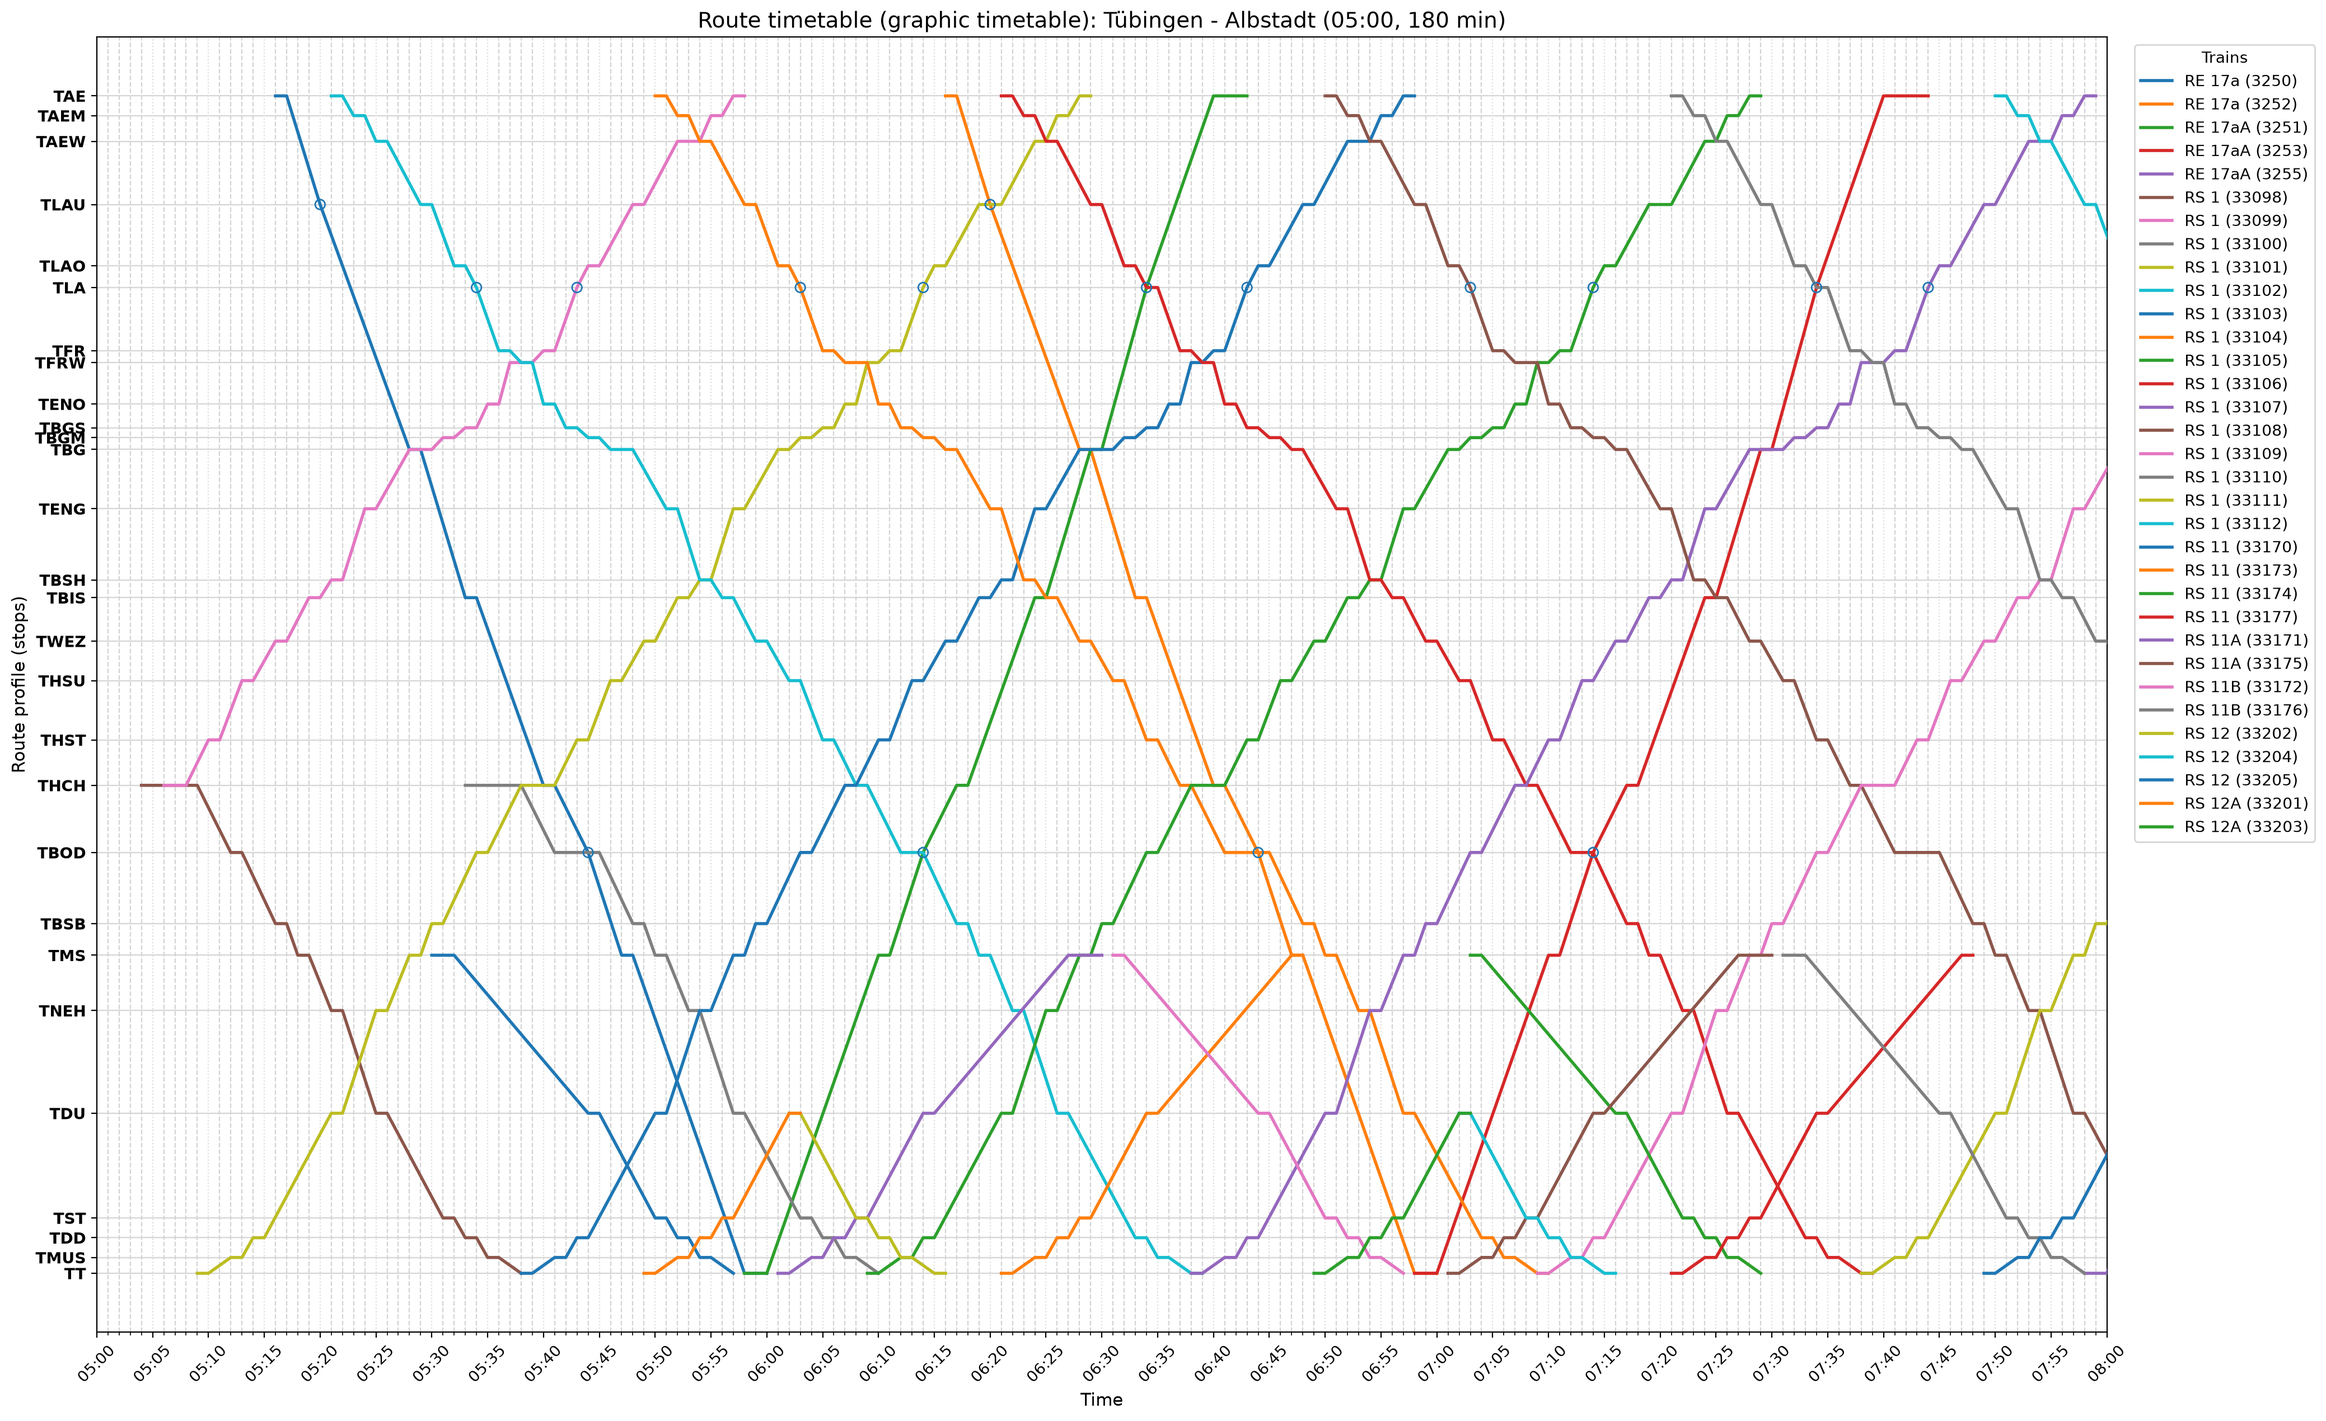
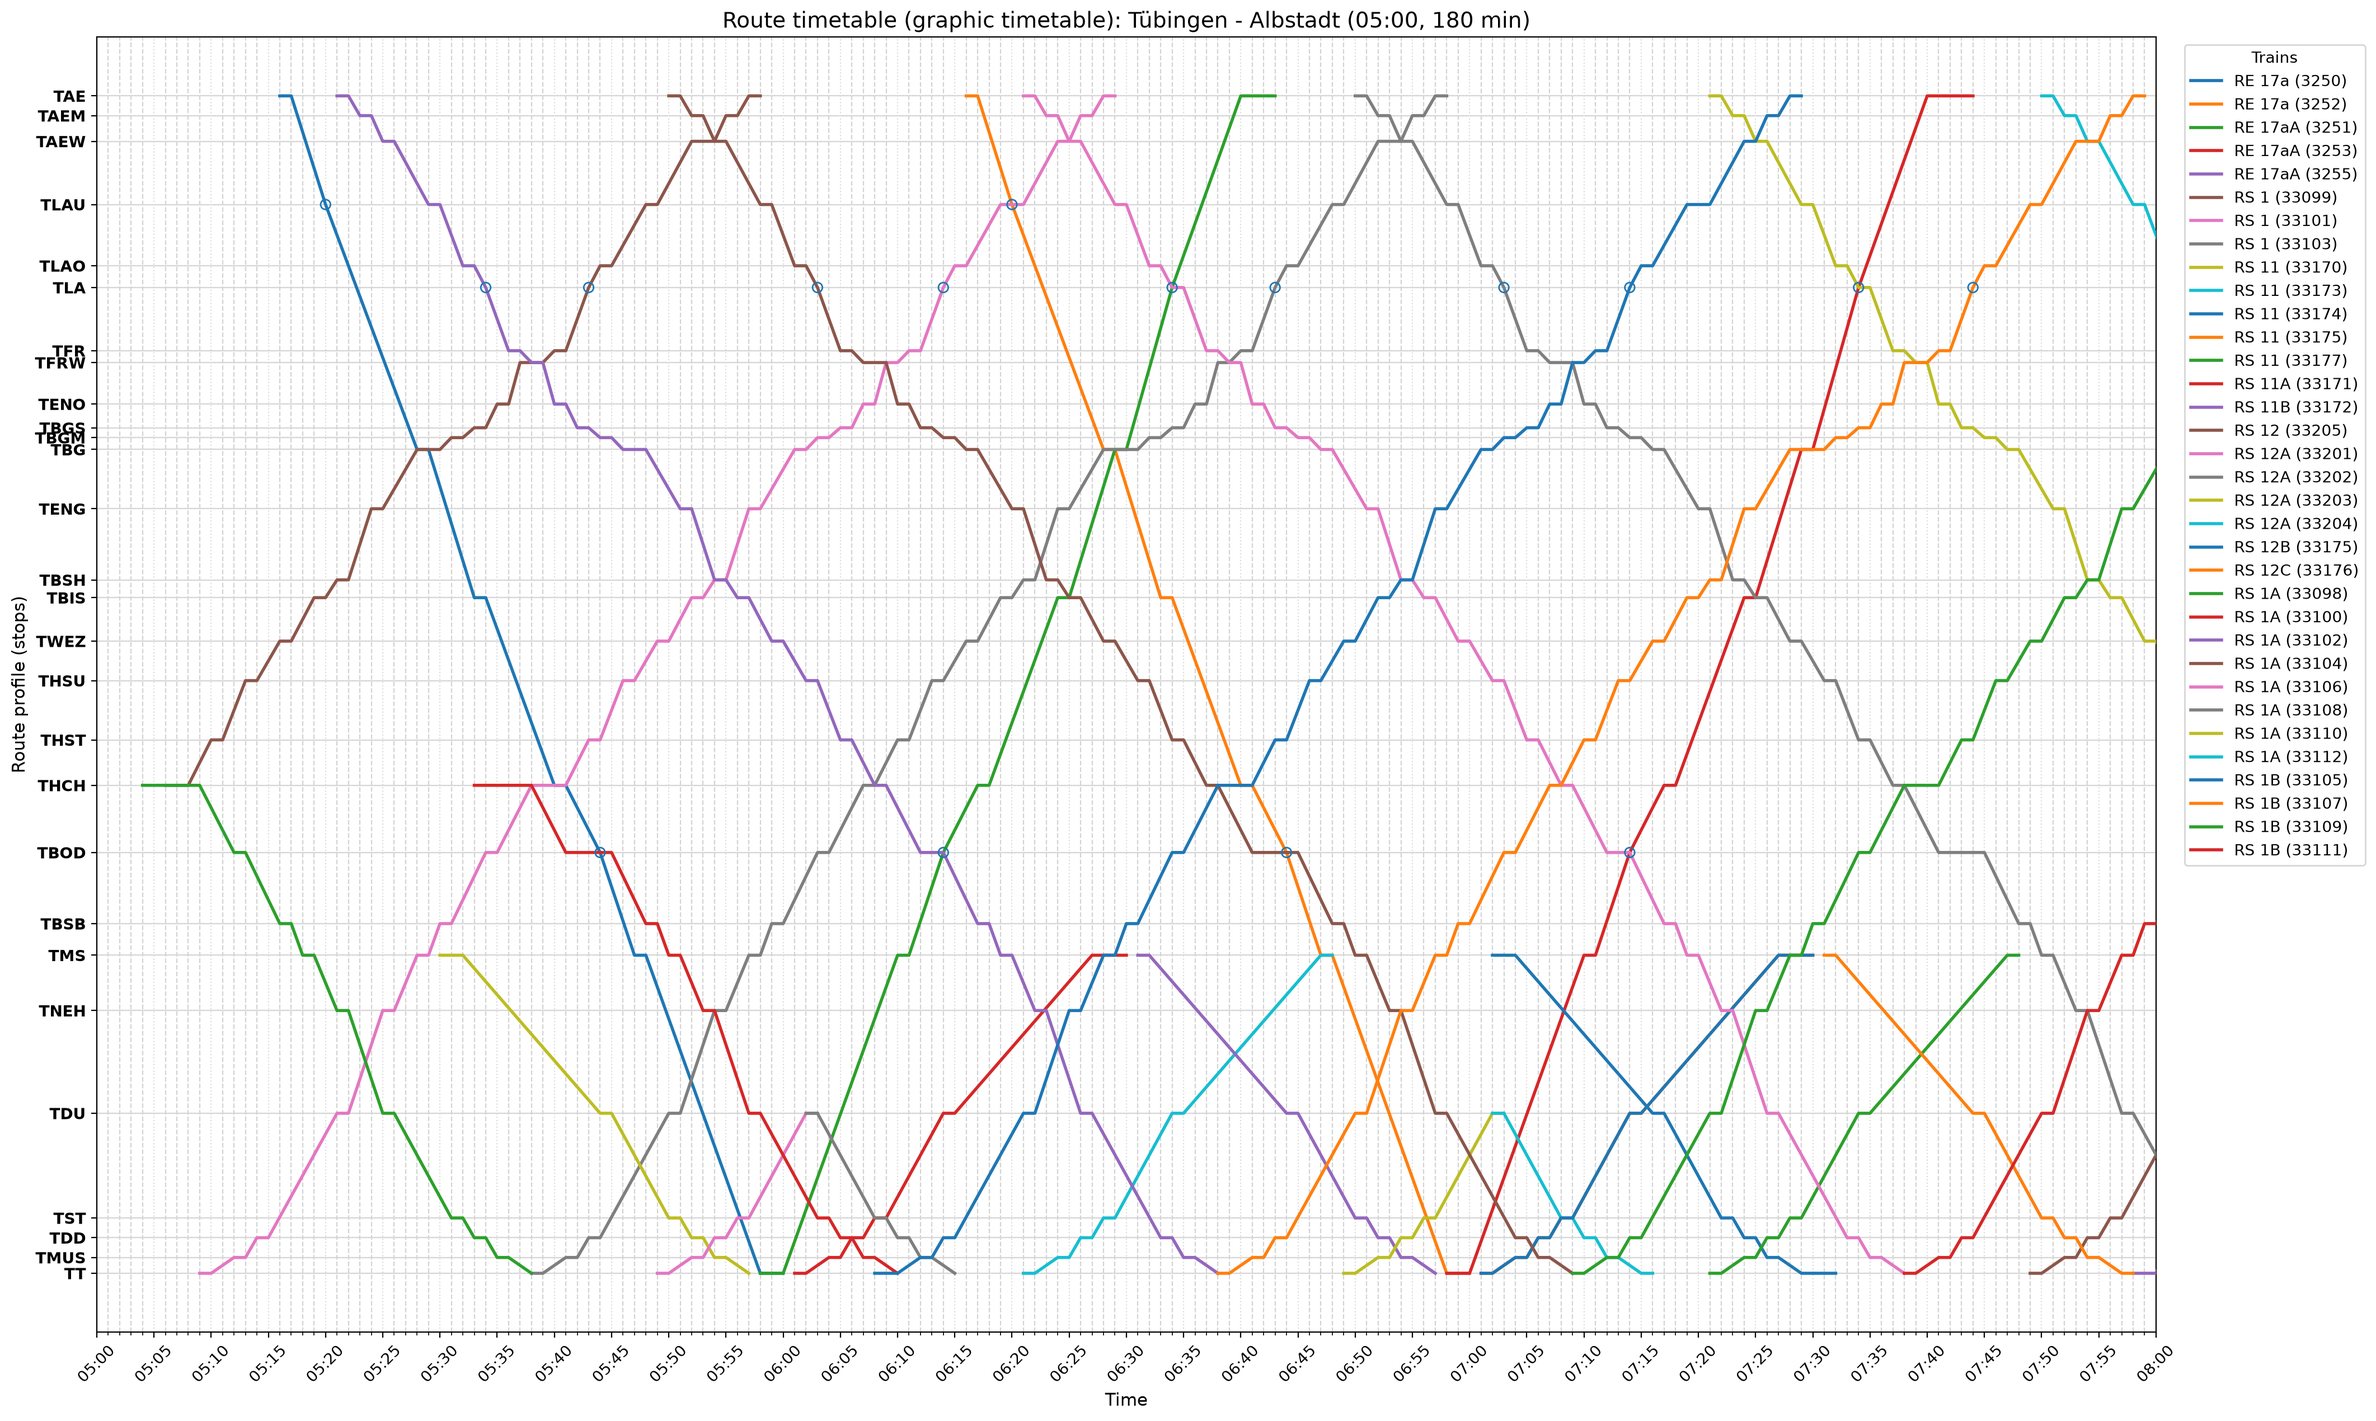
Concat some trains

diff --git a/main.py b/main.py
@@ -33,7 +33,7 @@ RS1_TUEBINGEN_ALBSTADT = {
         {"station_id": station_code_to_id("TAEW"), "arrival": 3, "departure": 1, "platform": 2},
         {"station_id": station_code_to_id("TAEM"), "arrival": 1, "departure": 1, "platform": 1},
         {"station_id": station_code_to_id("TAE"), "arrival": 1, "departure": 1, "platform": 1},
-        {"station_id": station_code_to_id("TAET"), "arrival": 1, "departure": 1, "platform": 1},
+        {"station_id": station_code_to_id("TAET"), "arrival": 1, "departure": 0, "platform": 1},
     ]
 }
 
@@ -68,7 +68,7 @@ RS1_ALBSTADT_TUEBINGEN = {
         #{"station_id": station_code_to_id("TST"), "arrival": 5, "departure": 1, "platform": 1},
         {"station_id": station_code_to_id("TDD"), "arrival": 6, "departure": 1, "platform": 1},
         {"station_id": station_code_to_id("TMUS"), "arrival": 1, "departure": 1, "platform": 1},
-        {"station_id": station_code_to_id("TT"), "arrival": 2, "departure": None, "platform": 11},
+        {"station_id": station_code_to_id("TT"), "arrival": 2, "departure": None, "platform": 6},
     ]
 }
 
@@ -112,9 +112,36 @@ RS1_HECHINGEN_ALBSTADT = {
         {"station_id": station_code_to_id("TAEW"), "arrival": 3, "departure": 1, "platform": 2},
         {"station_id": station_code_to_id("TAEM"), "arrival": 1, "departure": 1, "platform": 1},
         {"station_id": station_code_to_id("TAE"), "arrival": 1, "departure": 1, "platform": 1},
-        {"station_id": station_code_to_id("TAET"), "arrival": 1, "departure": 1, "platform": 1},
+        {"station_id": station_code_to_id("TAET"), "arrival": 1, "departure": 0, "platform": 1},
     ]
 }
+
+RS1_ALBSTADT_HECHINGEN = {
+    "name": "RS 1",
+    "stops": [
+        {"station_id": station_code_to_id("TAET"), "arrival": 0, "departure": 0, "platform": 1},
+        {"station_id": station_code_to_id("TAE"), "arrival": 1, "departure": 1, "platform": 1},
+        {"station_id": station_code_to_id("TAEM"), "arrival": 1, "departure": 1, "platform": 1},
+        {"station_id": station_code_to_id("TAEW"), "arrival": 1, "departure": 1, "platform": 1},
+        {"station_id": station_code_to_id("TLAU"), "arrival": 3, "departure": 1, "platform": 2},
+        {"station_id": station_code_to_id("TLAO"), "arrival": 2, "departure": 1, "platform": 1},
+        {"station_id": station_code_to_id("TLA"), "arrival": 1, "departure": 0},
+        {"station_id": station_code_to_id("TFR"), "arrival": 2, "departure": 1, "platform": 1},
+        {"station_id": station_code_to_id("TFRW"), "arrival": 1, "departure": 1, "platform": 1},
+        {"station_id": station_code_to_id("TENO"), "arrival": 1, "departure": 1, "platform": 1},
+        {"station_id": station_code_to_id("TBGS"), "arrival": 1, "departure": 1, "platform": 1},
+        {"station_id": station_code_to_id("TBGM"), "arrival": 1, "departure": 1, "platform": 1},
+        {"station_id": station_code_to_id("TBG"), "arrival": 1, "departure": 1, "platform": 1},
+        {"station_id": station_code_to_id("TENG"), "arrival": 3, "departure": 1, "platform": 2},
+        {"station_id": station_code_to_id("TBSH"), "arrival": 2, "departure": 1, "platform": 1},
+        {"station_id": station_code_to_id("TBIS"), "arrival": 1, "departure": 1, "platform": 1},
+        {"station_id": station_code_to_id("TWEZ"), "arrival": 2, "departure": 1, "platform": 1},
+        {"station_id": station_code_to_id("THSU"), "arrival": 2, "departure": 1, "platform": 1},
+        {"station_id": station_code_to_id("THST"), "arrival": 2, "departure": 1, "platform": 1},
+        {"station_id": station_code_to_id("THCH"), "arrival": 2, "departure": None, "platform": 2},
+    ]
+}
+
 
 RS11_TUEBINGEN_MOESSINGEN = {
     "name": "RS 11",
@@ -793,8 +820,8 @@ S1_33103.change_platform(station_code_to_id("TBG"), 1)
 S1_33103.extend_stop(station_code_to_id("THCH"), -2)
 S1_33103.extend_stop(station_code_to_id("TAEW"), 1)
 
-S1_33105 = Train.from_blueprint(33105, RS1_TUEBINGEN_ALBSTADT, "RS 1", "6:09", "LPLPL")
-S1_33105.set_origin(station_code_to_id("TTBW"), 2, platform=1)
+S1_33105 = Train.from_blueprint(33105, RS1_TUEBINGEN_ALBSTADT, "RS 1", "6:08", "LPLPL")
+S1_33105.extend_stop(station_code_to_id("TT"), 2)
 S1_33105.change_platform(station_code_to_id("TT"), 11)
 S1_33105.extend_stop(station_code_to_id("TLAU"), 1)
 
@@ -880,60 +907,54 @@ S1_33123.extend_stop(station_code_to_id("TLAU"), 1)
 #######################
 
 S1_33098 = Train.from_blueprint(33098, RS1_HECHINGEN_TUEBINGEN, "RS 1", "5:03", "LPL")
+S1_33098.add_leg(S1_33105)
 
 S1_33100 = Train.from_blueprint(33100, RS1_HECHINGEN_TUEBINGEN, "RS 1", "5:32", "LPL")
 S1_33100.extend_stop(station_code_to_id("TBOD"), 3) # overtake by RE
+S1_33100.add_leg(S1_33107)
 
 S1_33102 = Train.from_blueprint(33102, RS1_ALBSTADT_TUEBINGEN, "RS 1", "5:20", "LPL")
-S1_33102.change_platform(station_code_to_id("TT"), 6)
-S1_33102.set_ending(station_code_to_id("TTBW"), 2)
 S1_33102.extend_stop(station_code_to_id("TBG"), 1)
 S1_33102.extend_stop(station_code_to_id("TBOD"), 1) # Kreuzung mit RE
+S1_33102.add_leg(S1_33109)
 
 S1_33104 = Train.from_blueprint(33104, RS1_ALBSTADT_TUEBINGEN, "RS 1", "5:49", "LPLPL")
-S1_33104.change_platform(station_code_to_id("TT"), 6)
-S1_33104.set_ending(station_code_to_id("TTBW"), 2)
 S1_33104.extend_stop(station_code_to_id("TFRW"), 1)
 S1_33104.extend_stop(station_code_to_id("TBOD"), 3) # overtake by RE
+S1_33104.add_leg(S1_33111)
 
 S1_33106 = Train.from_blueprint(33106, RS1_ALBSTADT_TUEBINGEN, "RS 1", "6:20", "LPLPL")
-S1_33106.change_platform(station_code_to_id("TT"), 6)
-S1_33106.set_ending(station_code_to_id("TTBW"), 2)
 S1_33106.extend_stop(station_code_to_id("TLA"), 1)
 S1_33106.change_platform(station_code_to_id("TLA"), 2)
 S1_33106.extend_stop(station_code_to_id("TBOD"), 1)
+S1_33106.add_leg(S1_33113)
 
 S1_33108 = Train.from_blueprint(33108, RS1_ALBSTADT_TUEBINGEN, "RS 1", "6:49", "LPLPL")
-S1_33108.change_platform(station_code_to_id("TT"), 6)
-S1_33108.set_ending(station_code_to_id("TTBW"), 2)
 S1_33108.extend_stop(station_code_to_id("TFRW"), 1)
 S1_33108.extend_stop(station_code_to_id("TBOD"), 3) # overtake by RE
+S1_33108.add_leg(S1_33115)
 
 S1_33110 = Train.from_blueprint(33110, RS1_ALBSTADT_TUEBINGEN, "RS 1", "7:20", "LPLPL")
-S1_33110.change_platform(station_code_to_id("TT"), 6)
-S1_33110.set_ending(station_code_to_id("TTBW"), 2)
 S1_33110.extend_stop(station_code_to_id("TLA"), 1)
 S1_33110.change_platform(station_code_to_id("TLA"), 2)
 S1_33110.extend_stop(station_code_to_id("TBOD"), 1)
+S1_33110.add_leg(S1_33117)
 
 S1_33112 = Train.from_blueprint(33112, RS1_ALBSTADT_TUEBINGEN, "RS 1", "7:49", "LPLPL")
-S1_33112.change_platform(station_code_to_id("TT"), 6)
-S1_33112.set_ending(station_code_to_id("TTBW"), 2)
 S1_33112.extend_stop(station_code_to_id("TFRW"), 1)
 S1_33112.extend_stop(station_code_to_id("TBOD"), 3) # overtake by RE
+S1_33112.add_leg(S1_33119)
 
 S1_33114 = Train.from_blueprint(33114, RS1_ALBSTADT_TUEBINGEN, "RS 1", "8:20", "LPLPL")
-S1_33114.change_platform(station_code_to_id("TT"), 6)
-S1_33114.set_ending(station_code_to_id("TTBW"), 2)
 S1_33114.extend_stop(station_code_to_id("TLA"), 1)
 S1_33114.change_platform(station_code_to_id("TLA"), 2)
 S1_33114.extend_stop(station_code_to_id("TBOD"), 1)
+S1_33114.add_leg(S1_33121)
 
 S1_33116 = Train.from_blueprint(33116, RS1_ALBSTADT_TUEBINGEN, "RS 1", "8:49", "LPLPL")
-S1_33116.change_platform(station_code_to_id("TT"), 6)
-S1_33116.set_ending(station_code_to_id("TTBW"), 2)
 S1_33116.extend_stop(station_code_to_id("TFRW"), 1)
 S1_33116.extend_stop(station_code_to_id("TBOD"), 3) # overtake by RE
+S1_33116.add_leg(S1_33123)
 
 S1_33118 = Train.from_blueprint(33118, RS1_ALBSTADT_TUEBINGEN, "RS 1", "9:20", "LPLPL")
 S1_33118.change_platform(station_code_to_id("TT"), 6)
@@ -948,12 +969,10 @@ S1_33120.set_ending(station_code_to_id("TTBW"), 2)
 S1_33120.extend_stop(station_code_to_id("TFRW"), 1)
 S1_33120.extend_stop(station_code_to_id("TBOD"), 3) # overtake by RE
 
-S1_33122 = Train.from_blueprint(33122, RS1_ALBSTADT_TUEBINGEN, "RS 1", "10:20", "LPLPL")
-S1_33122.change_platform(station_code_to_id("TT"), 6)
-S1_33122.set_ending(station_code_to_id("TTBW"), 2)
+S1_33122 = Train.from_blueprint(33122, RS1_ALBSTADT_HECHINGEN, "RS 1", "10:20", "LPLPL")
+S1_33122.set_ending(station_code_to_id("THEA"), 3)
 S1_33122.extend_stop(station_code_to_id("TLA"), 1)
 S1_33122.change_platform(station_code_to_id("TLA"), 2)
-S1_33122.extend_stop(station_code_to_id("TBOD"), 1)
 
 S1_TRAINS = [S1_33098, S1_33099, S1_33100, S1_33101, S1_33102, S1_33103, S1_33104, S1_33105, S1_33106, S1_33107, S1_33108, S1_33109, S1_33110, S1_33111, S1_33112,
               S1_33113, S1_33114, S1_33115, S1_33116, S1_33117, S1_33118, S1_33119, S1_33120, S1_33121, S1_33122, S1_33123]
@@ -1017,33 +1036,49 @@ S11_33172.change_platform(station_code_to_id("TMS"), 1)
 S11_33172.extend_stop(station_code_to_id("TMS"), 1)
 S11_33171.add_leg(S11_33172)
 
-S11_33174 = Train.from_blueprint(33174, RS11_MOESSINGEN_TUEBINGEN, "RS 11", "7:03", "LPL")
+S11_33174 = Train.from_blueprint(33174, RS11_MOESSINGEN_TUEBINGEN, "RS 11", "7:02", "LPL")
 S11_33174.set_origin(station_code_to_id("TMSA"), 1, platform=1)
+S11_33174.extend_stop(station_code_to_id("TMS"), 1)
+S11_33174.change_platform(station_code_to_id("TT"), 6)
+S11_33174.set_ending(station_code_to_id("TTBW"), 2, platform=1)
+S11_33174.extend_stop(station_code_to_id("TT"), 2)
 
 S11_33176 = Train.from_blueprint(33176, RS11_MOESSINGEN_TUEBINGEN, "RS 11", "7:31", "LPL")
-S11_33176.set_origin(station_code_to_id("TMSA"), 1, platform=1)
+S11_33176.change_platform(station_code_to_id("TMS"), 1)
 S11_33176.extend_stop(station_code_to_id("TMS"), 1)
-S11_33175.add_leg(S11_33176)
+S11_33176.set_ending(station_code_to_id("TTBW"), 2, platform=1)
 
 S11_33178 = Train.from_blueprint(33178, RS11_MOESSINGEN_TUEBINGEN, "RS 11", "8:03", "LPL")
 S11_33178.set_origin(station_code_to_id("TMSA"), 1, platform=1)
+S11_33178.extend_stop(station_code_to_id("TMS"), 1)
+S11_33178.change_platform(station_code_to_id("TT"), 6)
+S11_33178.set_ending(station_code_to_id("TTBW"), 2, platform=1)
+S11_33178.extend_stop(station_code_to_id("TT"), 2)
 
 S11_33180 = Train.from_blueprint(33180, RS11_MOESSINGEN_TUEBINGEN, "RS 11", "8:31", "LPL")
-S11_33180.set_origin(station_code_to_id("TMSA"), 1, platform=1)
+S11_33180.change_platform(station_code_to_id("TMS"), 1)
 S11_33180.extend_stop(station_code_to_id("TMS"), 1)
 
 S11_33182 = Train.from_blueprint(33182, RS11_MOESSINGEN_TUEBINGEN, "RS 11", "9:03", "LPL")
 S11_33182.set_origin(station_code_to_id("TMSA"), 1, platform=1)
+S11_33182.extend_stop(station_code_to_id("TMS"), 1)
+S11_33182.change_platform(station_code_to_id("TT"), 6)
+S11_33182.set_ending(station_code_to_id("TTBW"), 2, platform=1)
+S11_33182.extend_stop(station_code_to_id("TT"), 2)
 
 S11_33184 = Train.from_blueprint(33184, RS11_MOESSINGEN_TUEBINGEN, "RS 11", "9:31", "LPL")
-S11_33184.set_origin(station_code_to_id("TMSA"), 1, platform=1)
+S11_33184.change_platform(station_code_to_id("TMS"), 1)
 S11_33184.extend_stop(station_code_to_id("TMS"), 1)
 
 S11_33186 = Train.from_blueprint(33186, RS11_MOESSINGEN_TUEBINGEN, "RS 11", "10:03", "LPL")
 S11_33186.set_origin(station_code_to_id("TMSA"), 1, platform=1)
+S11_33186.extend_stop(station_code_to_id("TMS"), 1)
+S11_33186.change_platform(station_code_to_id("TT"), 6)
+S11_33186.set_ending(station_code_to_id("TTBW"), 2, platform=1)
+S11_33186.extend_stop(station_code_to_id("TT"), 2)
 
 S11_33188 = Train.from_blueprint(33188, RS11_MOESSINGEN_TUEBINGEN, "RS 11", "10:31", "LPL")
-S11_33188.set_origin(station_code_to_id("TMSA"), 1, platform=1)
+S11_33188.change_platform(station_code_to_id("TMS"), 1)
 S11_33188.extend_stop(station_code_to_id("TMS"), 1)
 
 S11_TRAINS = [S11_33170, S11_33171, S11_33173, S11_33174, S11_33175, S11_33177, S11_33178, 
@@ -1070,19 +1105,26 @@ S12_33209.set_origin(station_code_to_id("TTBW"), 2, platform=1)
 
 S12_33202 = Train.from_blueprint(33202, RS12_RTS_TUEBINGEN, "RS 12", "5:13", "LPL")
 S12_33202.set_origin(station_code_to_id("PFAB"), 10, platform=2)
-S12_33202.set_ending(station_code_to_id("TTBW"), 2, platform=1)
+S12_33202.add_leg(S11_33175)
+S12_33202.add_leg(S11_33176)
 
 S12_33204 = Train.from_blueprint(33204, RS12_RTS_TUEBINGEN, "RS 12", "6:13", "LPL")
 S12_33204.set_origin(station_code_to_id("PFAB"), 10, platform=2)
 S12_33204.set_ending(station_code_to_id("TTBW"), 2, platform=1)
+S12_33204.add_leg(S11_33179)
+S12_33204.add_leg(S11_33180)
 
 S12_33206 = Train.from_blueprint(33206, RS12_RTS_TUEBINGEN, "RS 12", "7:12", "LPL")
 S12_33206.set_ending(station_code_to_id("TTBW"), 2, platform=1)
 S12_33206.extend_stop(station_code_to_id("RTS"), 2)
+S12_33206.add_leg(S11_33183)
+S12_33206.add_leg(S11_33184)
 
 S12_33208 = Train.from_blueprint(33208, RS12_RTS_TUEBINGEN, "RS 12", "8:12", "LPL")
 S12_33208.set_ending(station_code_to_id("TTBW"), 2, platform=1)
 S12_33208.extend_stop(station_code_to_id("RTS"), 2)
+S12_33208.add_leg(S11_33187)
+S12_33208.add_leg(S11_33188)
 
 S12_33210 = Train.from_blueprint(33210, RS12_RTS_TUEBINGEN, "RS 12", "9:12", "LPL")
 S12_33210.set_ending(station_code_to_id("TTBW"), 2, platform=1)
@@ -1223,7 +1265,7 @@ def main():
     if timetable_df.empty:
         print(f"The worksheet '{selected_section}' does not yet contain any timetable data.")
         return
-    #plot_route_timetable(timetable_df, selected_section, "05:00", 180)
+    plot_route_timetable(timetable_df, selected_section, "05:00", 180)
     #plot_route_timetable(timetable_df, "TMS - RTS", "05:00", 180)
     #generate_line_timetable(TRAINS, "Tübingen - Betzingen", "05:00", 160)
     #generate_line_timetable(TRAINS, "RT Hbf K / B - RT Süd", "05:40", 140)
@@ -1231,7 +1273,7 @@ def main():
     # plot_station_departures(TRAINS, "RTS", "05:20", 180)
     #plot_station_departures(TRAINS, "TT", "06:00", 180)
     print(S1_33101.timetable())
-    export_trains_txt(TRAINS)
+    #export_trains_txt(TRAINS)
 
 
 if __name__ == "__main__":

diff --git a/train.py b/train.py
@@ -470,8 +470,10 @@ class Train:
             raise ValueError("Only REG trains may have multiple legs")
         if not isinstance(train, Train):
             raise TypeError("A leg must be another Train")
-        if train is self or train._leg_parent is not None:
-            raise ValueError("The train is already part of a leg chain")
+        if train is self:
+            raise ValueError("A train cannot be its own leg")
+        if train._leg_parent is not None:
+            train.add_leg(self)
         if intermission is not None and (
             not isinstance(intermission, int)
             or isinstance(intermission, bool)
